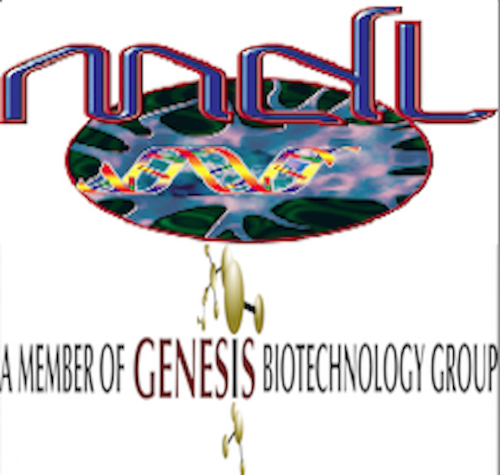
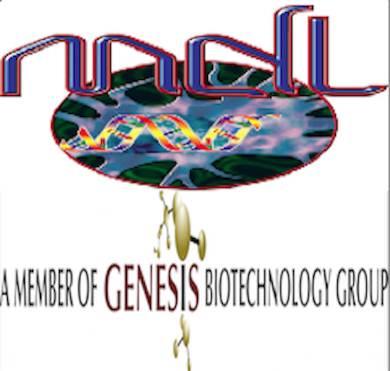
5-13-22

Changed region(s): [[0.6769, 0.7709, 0.7077, 0.8005], [0.1231, 0.7709, 0.1538, 0.8005], [0.0615, 0.7412, 0.0923, 0.7709]]

diff --git a/screens/Nongonococcal_Urethritis.js b/screens/Nongonococcal_Urethritis.js
@@ -32,14 +32,14 @@ const MyComponent = () => {
     <ScrollView style={styles.scrollView}>
     <List.Section >
    <List.Accordion
-      title="Non Recurent Recommendations"
+      title="Non Recurent Recommendations"titleNumberOfLines={4}
       left={props => <List.Icon {...props} icon={expandedone ? 'folder' : 'folder-open'}
           color={expandedone ? 'blue' : 'blue'}/>}
           onPress={handlePressone}
           >
       <List.Item NumberOfLines={4} />
     <List.Accordion
-      title="Recommended Regimen"
+      title="Recommended Regimen"titleNumberOfLines={4}
       left={props => <List.Icon {...props} icon={expandedtwo ? 'folder' : 'folder-open'}
       color={expandedtwo ? 'blue' : 'blue'} />}
       onPress={handlePresstwo}
@@ -53,7 +53,7 @@ doxycycline 100 mg orally 2x/day for 7 days
       </List.Accordion>
    
     <List.Accordion
-            title="Alternate Regimens"
+            title="Alternate Regimens"titleNumberOfLines={4}
             left={(props) => <List.Icon {...props} icon={expandedthree ? 'folder' : 'folder-open'}
             color={expandedthree ? 'blue' : 'blue'} />}
             onPress={handlePressthree}
@@ -70,19 +70,19 @@ doxycycline 100 mg orally 2x/day for 7 days
         </List.Accordion>
           
           <List.Accordion
-            title="Persistent or Recurrent NGU: test for Mycoplasma genitalium:"titleNumberOfLines={4}
+            title="Persistent or Recurrent NGU: test for Mycoplasma genitalium:"titleNumberOfLines={5}
             left={(props) => <List.Icon {...props} icon={expandedfour ? 'folder' : 'folder-open'}
             color={expandedfour ? 'blue' : 'blue'} />}
             onPress={handlePressfour}
           ><List.Item NumberOfLines={4} />
             <List.Accordion 
       title="If M. genitalium resistance testing is unavailable but M. genitalium is detected by an FDA-cleared NAAT
-      "titleNumberOfLines={4}
+      "titleNumberOfLines={7}
       left={props => <List.Icon {...props} icon={expandedfive ? 'folder' : 'folder-open'}
       color={expandedfive ? 'blue' : 'blue'}/>}
       onPress={handlePressfive}>
         <List.Accordion
-      title="Recommended Regimen"
+      title="Recommended Regimen"titleNumberOfLines={4}
       left={props => <List.Icon {...props} icon={expandedsix ? 'folder' : 'folder-open'}
       color={expandedsix ? 'blue' : 'blue'}/>}
       onPress={handlePresssix}>
@@ -94,7 +94,7 @@ doxycycline 100 mg orally 2x/day for 7 days, FOLLOWED BY moxifloxacin 400 mg 1x/
 </View>
       </List.Accordion>
       <List.Accordion
-            title="Alternate Regimens"
+            title="Alternate Regimens"titleNumberOfLines={4}
             left={(props) => <List.Icon {...props} icon={expandedseven ? 'folder' : 'folder-open'}
             color={expandedseven ? 'blue' : 'blue'}/>}
             onPress={handlePressseven}
@@ -117,7 +117,7 @@ for 3 days and a test-of-cure 21 days after completion of therapy</Text>
       color={expandedeight ? 'blue' : 'blue'}/>}
       onPress={handlePresseight}>
         <List.Accordion
-      title="Recommended Regimen"
+      title="Recommended Regimen"titleNumberOfLines={4}
       left={props => <List.Icon {...props} icon={expandednine ? 'folder' : 'folder-open'}
       color={expandednine ? 'blue' : 'blue'}/>}
       onPress={handlePressnine}>
@@ -137,12 +137,12 @@ doxycycline 100 mg orally 2x/day for 7 days, FOLLOWED BY moxifloxacin 400 mg ora
       title="Test for Trichomonas vaginalis in heterosexual men in areas where infection is prevalent
 
 
-      "titleNumberOfLines={4}
+      "titleNumberOfLines={7}
       left={props => <List.Icon {...props} icon={expandedten ? 'folder' : 'folder-open'}
       color={expandedten ? 'blue' : 'blue'}/>}
       onPress={handlePressten}>
         <List.Accordion
-      title="Recommended Regimen"
+      title="Recommended Regimen"titleNumberOfLines={4}
       left={props => <List.Icon {...props} icon={expandedeleven ? 'folder' : 'folder-open'}
       color={expandedeleven ? 'blue' : 'blue'}/>}
       onPress={handlePresseleven}>

diff --git a/assets/Modal.js b/assets/Modal.js
@@ -1,0 +1,83 @@
+import React, { useState } from "react";
+import { Alert, Modal, StyleSheet, Text, Pressable, View } from "react-native";
+
+const modalShow = () => {
+  const [modalVisible, setModalVisible] = useState(false);
+  return (
+    <View style={styles.centeredView}>
+      <Modal
+        animationType="slide"
+        transparent={true}
+        visible={modalVisible}
+        onRequestClose={() => {
+          Alert.alert("Modal has been closed.");
+          setModalVisible(!modalVisible);
+        }}
+      >
+        <View style={styles.centeredView}>
+          <View style={styles.modalView}>
+            <Text style={styles.modalText}>This App was created by Jon Sniffen; Medical Diagnostic Laboratories, and reflects recommended regimens found in CDCs Sexually Transmitted Infections Treatment Guidelines, 2021. This summary is intended as a source of clinical guidance. When more than one therapeutic regimen is recommended, the sequence is in alphabetical order unless the choices for therapy are prioritized based on efficacy, cost, or convenience. The recommended regimens should be used primarily; alternative regimens can be considered in instances of substantial drug allergy or other contraindications. An important component of STI treatment is partner management. Providers can arrange for the evaluation and treatment of sex partners either directly or with assistance from state and local health departments. Complete guidelines can be found online at www.cdc.gov/std/treatment.</Text>
+            <Pressable
+              style={[styles.button, styles.buttonClose]}
+              onPress={() => setModalVisible(!modalVisible)}
+            >
+              <Text style={styles.textStyle}>Hide Modal</Text>
+            </Pressable>
+          </View>
+        </View>
+      </Modal>
+      <Pressable
+        style={[styles.button, styles.buttonOpen]}
+        onPress={() => setModalVisible(true)}
+      >
+        <Text style={styles.textStyle}>Show Modal</Text>
+      </Pressable>
+    </View>
+  );
+};
+
+const styles = StyleSheet.create({
+  centeredView: {
+    flex: 1,
+    justifyContent: "center",
+    alignItems: "center",
+    marginTop: 22
+  },
+  modalView: {
+    margin: 20,
+    backgroundColor: "white",
+    borderRadius: 20,
+    padding: 35,
+    alignItems: "center",
+    shadowColor: "#000",
+    shadowOffset: {
+      width: 0,
+      height: 2
+    },
+    shadowOpacity: 0.25,
+    shadowRadius: 4,
+    elevation: 5
+  },
+  button: {
+    borderRadius: 20,
+    padding: 10,
+    elevation: 2
+  },
+  buttonOpen: {
+    backgroundColor: "#F194FF",
+  },
+  buttonClose: {
+    backgroundColor: "#2196F3",
+  },
+  textStyle: {
+    color: "white",
+    fontWeight: "bold",
+    textAlign: "center"
+  },
+  modalText: {
+    marginBottom: 15,
+    textAlign: "center"
+  }
+});
+
+export default modalShow;

diff --git a/src/DrawerNavigator.js b/src/DrawerNavigator.js
@@ -1,5 +1,5 @@
 import * as React from 'react'
-import { StyleSheet, Image, Text, TouchableOpacity } from 'react-native'
+import { StyleSheet, Image, Text, TouchableOpacity,Alert } from 'react-native'
 import "react-native-gesture-handler";
 import { createDrawerNavigator, DrawerContentScrollView, DrawerItem } from '@react-navigation/drawer'
 import Icon from 'react-native-vector-icons/FontAwesome'
@@ -63,7 +63,7 @@ const DrawerNavigator = ({ nav }) => {
         title: 'TopHome',
         headerTitle: () => <Image source={require('../screens/images/cdclogo.png')} />,
         headerRight: () => (
-          <TouchableOpacity onPress={() => alert('This App was created by Jon Sniffen; Medical Diagnostic Laboratories, and reflects recommended regimens found in CDCs Sexually Transmitted Infections Treatment Guidelines, 2021. This summary is intended as a source of clinical guidance. When more than one therapeutic regimen is recommended, the sequence is in alphabetical order unless the choices for therapy are prioritized based on efficacy, cost, or convenience. The recommended regimens should be used primarily; alternative regimens can be considered in instances of substantial drug allergy or other contraindications. An important component of STI treatment is partner management. Providers can arrange for the evaluation and treatment of sex partners either directly or with assistance from state and local health departments. Complete guidelines can be found online at www.cdc.gov/std/treatment.')} style={styles.headerRight}>
+          <TouchableOpacity  onPress={() => Alert.alert('About this App','This App was created by Jon Sniffen; Medical Diagnostic Laboratories, and reflects recommended regimens found in CDCs Sexually Transmitted Infections Treatment Guidelines, 2021. This summary is intended as a source of clinical guidance. When more than one therapeutic regimen is recommended, the sequence is in alphabetical order unless the choices for therapy are prioritized based on efficacy, cost, or convenience. The recommended regimens should be used primarily; alternative regimens can be considered in instances of substantial drug allergy or other contraindications. An important component of STI treatment is partner management. Providers can arrange for the evaluation and treatment of sex partners either directly or with assistance from state and local health departments. Complete guidelines can be found online at www.cdc.gov/std/treatment.')} style={styles.headerRight}>
             <Icon name="info-circle" size={20} color="#fff" />
           </TouchableOpacity>
         ),

diff --git a/screens/Syphilis.js b/screens/Syphilis.js
@@ -22,7 +22,7 @@ const MyComponent = () => {
     <ScrollView style={styles.scrollView}>
     <List.Section >
       <List.Accordion
-        title="Primary, secondary, and early latent: adults (including pregnant women and people with HIV infection)"titleNumberOfLines={4}
+        title="Primary, secondary, and early latent: adults (including pregnant women and people with HIV infection)"titleNumberOfLines={7}
         left={props => <List.Icon {...props} icon={expandedone ? 'folder' : 'folder-open'}
           color={expandedone ? 'blue' : 'blue'}/>}
           onPress={handlePressone}>
@@ -34,7 +34,7 @@ const MyComponent = () => {
        </View>
       </List.Accordion>
       <List.Accordion
-        title="Late latent adults (including pregnant women and people with HIV infection)"titleNumberOfLines={4}
+        title="Late latent adults (including pregnant women and people with HIV infection)"titleNumberOfLines={7}
         left={props => <List.Icon {...props} icon={expandedtwo ? 'folder' : 'folder-open'}
         color={expandedtwo ? 'blue' : 'blue'} />}
         onPress={handlePresstwo}>
@@ -52,7 +52,7 @@ const MyComponent = () => {
         color={expandedthree ? 'blue' : 'blue'} />}
         onPress={handlePressthree}>
           <List.Accordion
-        title="RECOMMENDED REGIMEN"
+        title="RECOMMENDED REGIMEN"titleNumberOfLines={4}
         left={props => <List.Icon {...props} icon={expandedfour ? 'folder' : 'folder-open'}
         color={expandedfour ? 'blue' : 'blue'} />}
         onPress={handlePressfour}>
@@ -64,7 +64,7 @@ const MyComponent = () => {
        </View>
        </List.Accordion>
        <List.Accordion
-        title="ALTERNATE REGIMEN"
+        title="ALTERNATE REGIMEN"titleNumberOfLines={4}
         left={props => <List.Icon {...props} icon={expandedfive ? 'folder' : 'folder-open'}
         color={expandedfive ? 'blue' : 'blue'}/>}
         onPress={handlePressfive}>

diff --git a/screens/Pelvic_Inflammatory_Disease.js b/screens/Pelvic_Inflammatory_Disease.js
@@ -19,12 +19,12 @@ const MyComponent = () => {
     <ScrollView style={styles.scrollView}>
     <List.Section>
       <List.Accordion
-        title="Parenteral treatment"
+        title="Parenteral treatment"titleNumberOfLines={4}
         left={props => <List.Icon {...props} icon={expandedone ? 'folder' : 'folder-open'}
         color={expandedone ? 'blue' : 'blue'}/>}
         onPress={handlePressone}>
           <List.Accordion
-        title="RECOMMENDED REGIMEN"
+        title="RECOMMENDED REGIMEN"titleNumberOfLines={4}
         left={props => <List.Icon {...props} icon={expandedtwo ? 'folder' : 'folder-open'}
         color={expandedtwo ? 'blue' : 'blue'} />}
         onPress={handlePresstwo}>
@@ -50,7 +50,7 @@ const MyComponent = () => {
         </View>
       </List.Accordion>
       <List.Accordion
-        title="ALTERNATE REGIMEN"
+        title="ALTERNATE REGIMEN"titleNumberOfLines={4}
         left={props => <List.Icon {...props} icon={expandedthree ? 'folder' : 'folder-open'}
         color={expandedthree ? 'blue' : 'blue'} />}
         onPress={handlePressthree}>
@@ -73,7 +73,7 @@ const MyComponent = () => {
       </List.Accordion>
       </List.Accordion>
       <List.Accordion
-        title="Intramuscular or oral treatment"
+        title="Intramuscular or oral treatment"titleNumberOfLines={4}
         left={props => <List.Icon {...props} icon={expandedfour ? 'folder' : 'folder-open'}
         color={expandedfour ? 'blue' : 'blue'} />}
         onPress={handlePressfour}>
@@ -99,6 +99,8 @@ doxycycline 100 mg orally 2x/day for 14 days WITH metronidazole 500 mg orally 2x
       </List.Accordion>
       <View>
       <Text NumberOfLines={4}>
+      {"\n"}
+      {"\n"}
       The complete list of recommended regimens can be found in Sexually Transmitted Infections Treatment Guidelines, 2021.
       </Text>
     </View>

diff --git a/screens/Trichomoniasis.js b/screens/Trichomoniasis.js
@@ -28,7 +28,7 @@ const MyComponent = () => {
           color={expandedone ? 'blue' : 'blue'}/>}
           onPress={handlePressone}>
           <List.Accordion
-        title="RECOMMENDED REGIMEN"
+        title="RECOMMENDED REGIMEN"titleNumberOfLines={4}
         left={props => <List.Icon {...props} icon={expandedtwo ? 'folder' : 'folder-open'}
         color={expandedtwo ? 'blue' : 'blue'} />}
         onPress={handlePresstwo}>
@@ -40,7 +40,7 @@ const MyComponent = () => {
        </View>
        </List.Accordion>
        <List.Accordion
-        title="ALTERNATE REGIMEN"
+        title="ALTERNATE REGIMEN"titleNumberOfLines={4}
         left={props => <List.Icon {...props} icon={expandedthree ? 'folder' : 'folder-open'}
         color={expandedthree ? 'blue' : 'blue'} />}
         onPress={handlePressthree}>
@@ -59,7 +59,7 @@ const MyComponent = () => {
         color={expandedfour ? 'blue' : 'blue'} />}
         onPress={handlePressfour}>
           <List.Accordion
-        title="RECOMMENDED REGIMEN"
+        title="RECOMMENDED REGIMEN"titleNumberOfLines={4}
         left={props => <List.Icon {...props} icon={expandedfive ? 'folder' : 'folder-open'}
         color={expandedfive ? 'blue' : 'blue'}/>}
         onPress={handlePressfive}>
@@ -71,7 +71,7 @@ const MyComponent = () => {
        </View>
        </List.Accordion>
        <List.Accordion
-        title="ALTERNATE REGIMEN"
+        title="ALTERNATE REGIMEN"titleNumberOfLines={4}
         left={props => <List.Icon {...props} icon={expandedsix ? 'folder' : 'folder-open'}
         color={expandedsix ? 'blue' : 'blue'}/>}
         onPress={handlePresssix}>

diff --git a/screens/MDL.js b/screens/MDL.js
@@ -1,13 +1,13 @@
 
 
-import {  Stylesheet,Text, View, ScrollView, Image, fullScreenWidth,fullScreenHeight,Dimensions } from 'react-native';
+import {  Stylesheet,Text, View, ScrollView, Image } from 'react-native';
 import * as React from 'react';
 import styles from '../src/styles';
 import { TouchableOpacity } from 'react-native-gesture-handler';
 
 function MDL ({navigation}){
     return (
-    <View style={{ flex: 1, alignItems: 'center', justifyContent: 'center', fontWeight: 'bold', fontSize: 22 }}>
+    <View style={{ flex: 1,  fontWeight: 'bold', fontSize: 22 }}>
     <ScrollView style={styles.scrollView}>
     <Text style={styles.baseText}>
     Medical Diagnostic Laboratories, L.L.C. (MDL), founded in 1997, serves primarily as a reference laboratory for Polymerase Chain Reaction (PCR) based testing to physicians, laboratories and hospitals worldwide.
@@ -17,9 +17,9 @@ function MDL ({navigation}){
 
     
     <View>
-       <TouchableOpacity>
+       <TouchableOpacity style={styles.container}>
       <Image source={require("../screens/images/mdl-genesis.png")}
-       resizeMode='center'  />
+       resizeMode='contain'  />
     
     </TouchableOpacity>
    </View>

diff --git a/screens/Lymphogranuloma_Venereum.js b/screens/Lymphogranuloma_Venereum.js
@@ -11,9 +11,9 @@ const MyComponent = () => {
   const handlePresstwo = () => setExpandedtwo(!expandedtwo);
   return (
     <ScrollView style={styles.scrollView}>
-    <List.Section title="Accordions">
+    <List.Section title="Treatment Options">
       <List.Accordion
-        title="Recommended Regimen"
+        title="Recommended Regimen" titleNumberOfLines={4}
         left={props => <List.Icon {...props} icon={expandedone ? 'folder' : 'folder-open'}
         color={expandedone ? 'blue' : 'blue'}/>}
         onPress={handlePressone}
@@ -27,7 +27,7 @@ doxycycline 100 mg orally 2x/day for 21 days
         </View>
       </List.Accordion>
       <List.Accordion
-              title="Alternate Regimens"
+              title="Alternate Regimens" titleNumberOfLines={4}
               left={(props) => <List.Icon {...props} icon={expandedtwo ? 'folder' : 'folder-open'}
               color={expandedtwo ? 'blue' : 'blue'} />}
               onPress={handlePresstwo}

diff --git a/screens/Pediculosis_Pubis.js b/screens/Pediculosis_Pubis.js
@@ -14,7 +14,7 @@ const MyComponent = () => {
     <ScrollView style={styles.scrollView}>
     <List.Section >
       <List.Accordion
-        title="Recommended Regimens"
+        title="Recommended Regimens"titleNumberOfLines={4}
         left={props => <List.Icon {...props} icon={expandedone ? 'folder' : 'folder-open'}
           color={expandedone ? 'blue' : 'blue'}/>}
           onPress={handlePressone}>
@@ -33,7 +33,7 @@ permethrin 1% cream rinse applied to affected areas, wash after 10 minutes OR
         </View>
       </List.Accordion>
       <List.Accordion
-        title="Alternative Regimen"
+        title="Alternative Regimen"titleNumberOfLines={4}
         left={props => <List.Icon {...props} icon={expandedtwo ? 'folder' : 'folder-open'}
         color={expandedtwo ? 'blue' : 'blue'} />}
         onPress={handlePresstwo}>

diff --git a/screens/Scabies.js b/screens/Scabies.js
@@ -14,7 +14,7 @@ const MyComponent = () => {
     <ScrollView style={styles.scrollView}>
     <List.Section title="Treatment Options">
       <List.Accordion
-        title="RECOMMENDED REGIMEN"
+        title="RECOMMENDED REGIMEN"titleNumberOfLines={4}
         left={props => <List.Icon {...props} icon={expandedone ? 'folder' : 'folder-open'}
         color={expandedone ? 'blue' : 'blue'}/>}
         onPress={handlePressone}>
@@ -45,7 +45,7 @@ const MyComponent = () => {
       </List.Accordion>
 
       <List.Accordion
-        title="ALTERNATIVE REGIMEN"
+        title="ALTERNATIVE REGIMEN"titleNumberOfLines={4}
         left={props => <List.Icon {...props} icon={expandedtwo ? 'folder' : 'folder-open'}
         color={expandedtwo ? 'blue' : 'blue'} />}
         onPress={handlePresstwo}>

diff --git a/src/styles.js b/src/styles.js
@@ -106,7 +106,7 @@ accordionText: {
 },
  baseText: {
      
-  justifyContent: 'space-around',
+  justifyContent: 'center',
    color: 'black',
    fontWeight: 'bold',
    textTransform: 'uppercase',
